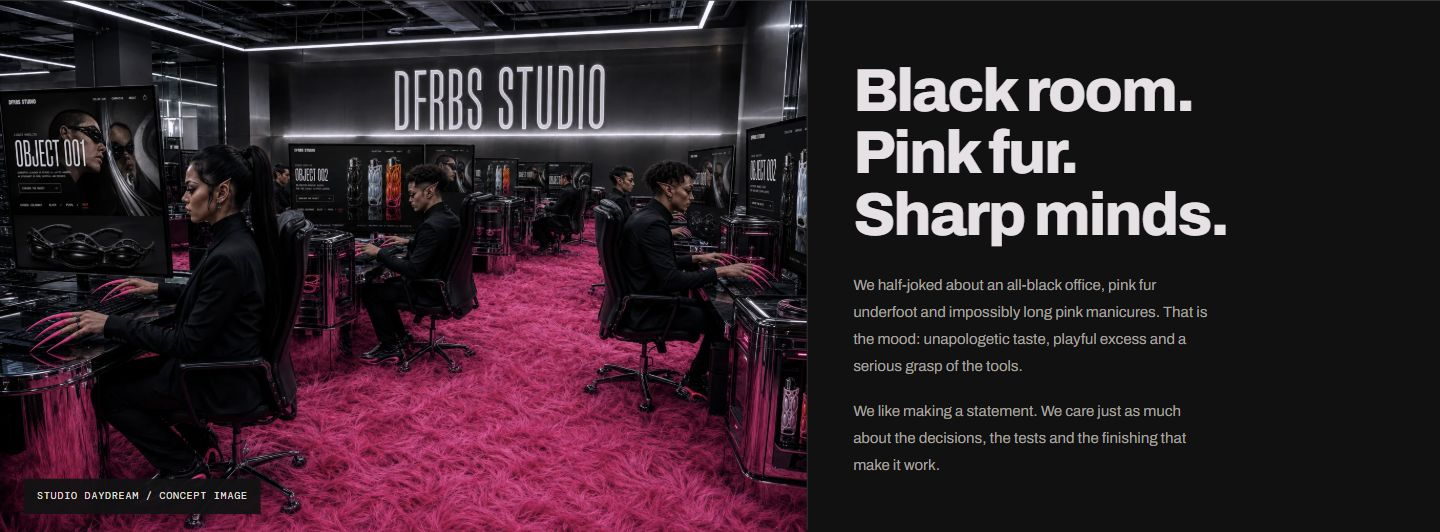
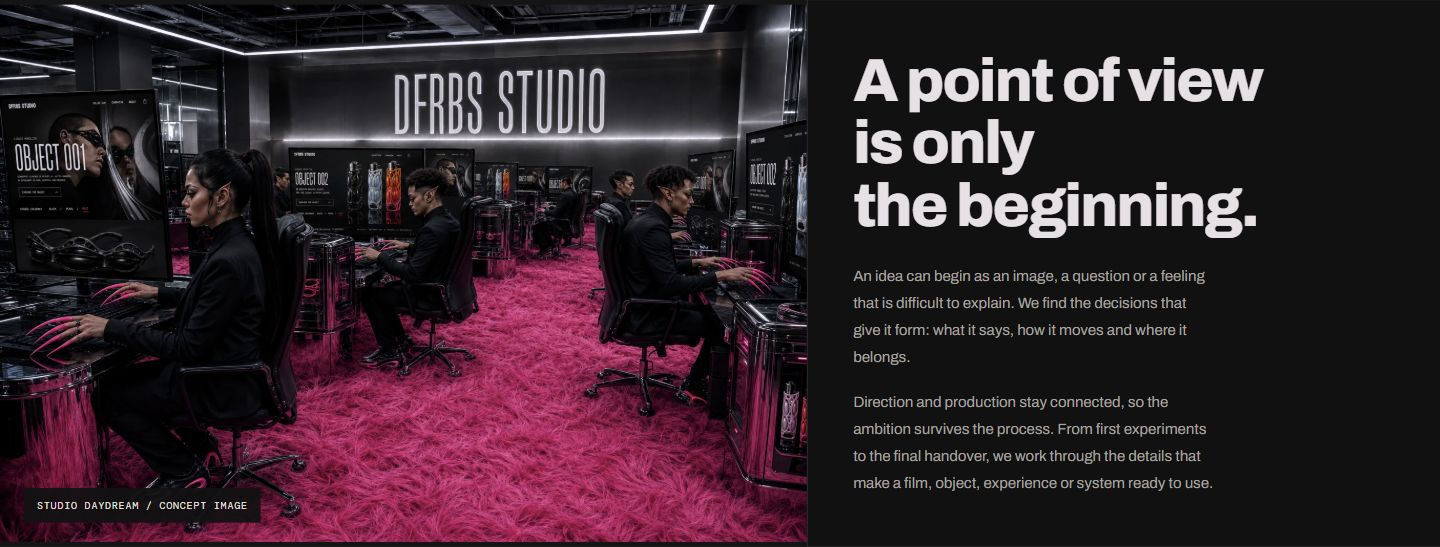
Give studio copy meaning beyond the visual metaphor

diff --git a/src/StudioWebsite.jsx b/src/StudioWebsite.jsx
@@ -52,14 +52,14 @@ function Home({ onNavigate }) {
         <div className="studio-opening-tabs" role="group" aria-label="Explore our practice"><button type="button" aria-pressed={view === "fashion"} onClick={() => setView("fashion")}>FASHION</button><button type="button" aria-pressed={view === "film"} onClick={() => setView("film")}>FILM</button><button type="button" aria-pressed={view === "object"} onClick={() => setView("object")}>OBJECTS</button><span>SELECTED WORK BY THE FOUNDERS</span></div>
       </div>
       <div className="studio-opening-note">
-        <div className="studio-intro-copy"><h1 id="studio-main-title" tabIndex={-1}>Wicked taste.<br />Serious craft.</h1><p>A creative studio by<br /><strong>Ran Bensimon & Dor Fellous.</strong></p><p>Films, digital fashion, art and creative tools. A point of view, and the skills to build it.</p></div>
+        <div className="studio-intro-copy"><h1 id="studio-main-title" tabIndex={-1}>Wicked taste.<br />Serious craft.</h1><p>A creative studio by<br /><strong>Ran Bensimon & Dor Fellous.</strong></p><p>Films, digital fashion, art and creative tools — developed as part of a visual language that belongs to you.</p></div>
         <div className="studio-intro-close"><span>FOR BRANDS, ARTISTS<br />& CULTURAL ORGANISATIONS</span><StudioLink to="contact" onNavigate={onNavigate} className="studio-primary-link">START A PROJECT <ArrowRight size={24} weight="light" /></StudioLink><StudioLink to="work" onNavigate={onNavigate} className="studio-text-link">EXPLORE THE WORK <ArrowUpRight size={18} /></StudioLink></div>
       </div>
     </section>
     <section className="studio-practice-index" aria-label="Explore studio services">{[{key:"film",title:"FILMS",description:"Campaigns, music, moving image."},{key:"3d",title:"WORLDS",description:"3D, digital fashion, art & experiences."},{key:"web",title:"TOOLS",description:"Websites, AI workflows, creative systems."}].map((entry) => <StudioLink to="services" options={{service:entry.key}} onNavigate={onNavigate} key={entry.key}><span>{entry.title}</span><p>{entry.description}</p><ArrowUpRight size={26} weight="light" /></StudioLink>)}</section>
-    <section className="studio-selected" aria-labelledby="selected-title"><div className="studio-section-heading"><h2 id="selected-title">A point of view.<br />The skills to back it.</h2><StudioLink to="work" onNavigate={onNavigate} className="studio-text-link">ALL SELECTED WORK <ArrowUpRight size={20} /></StudioLink></div><p className="studio-credit-note">A selection from our individual practices, brought together as DFRBS Studio.</p><div className="studio-work-grid">{featured.map((project) => <WorkTile project={project} onNavigate={onNavigate} key={project.id} />)}</div></section>
+    <section className="studio-selected" aria-labelledby="selected-title"><div className="studio-section-heading"><h2 id="selected-title">Selected<br />work.</h2><StudioLink to="work" onNavigate={onNavigate} className="studio-text-link">ALL SELECTED WORK <ArrowUpRight size={20} /></StudioLink></div><p className="studio-credit-note">A selection from our individual practices, brought together as DFRBS Studio.</p><div className="studio-work-grid">{featured.map((project) => <WorkTile project={project} onNavigate={onNavigate} key={project.id} />)}</div></section>
     <section className="studio-service-index" aria-labelledby="service-index-title"><div className="studio-section-heading"><h2 id="service-index-title">Bring us a brief.<br />Or the beginning of one.</h2><p>From a single visual to a complete production system, we shape the scope around what you need to make.</p></div><div>{SERVICES.map((service) => <StudioLink to="services" options={{service:service.key}} onNavigate={onNavigate} className="studio-service-row" key={service.key}><h3>{service.title}</h3><ArrowUpRight size={26} weight="light" /></StudioLink>)}</div></section>
-    <section className="studio-shared-practice"><h2>High taste.<br />Low ceremony.</h2><div><p>Dor’s work moves through AI films, digital fashion and wearable art. Ran’s practice connects real-time 3D, generative AI and interactive systems.</p><p>We care about the image and everything it takes to make it: the direction, the pipeline, the edit, the code. We get specific, test the idea and see it through.</p><StudioLink to="studio" onNavigate={onNavigate} className="studio-text-link">MEET THE STUDIO <ArrowUpRight size={20} /></StudioLink></div></section>
+    <section className="studio-shared-practice"><h2>Two practices.<br />One studio.</h2><div><p>Dor’s work moves through AI films, digital fashion and wearable art. Ran’s practice connects real-time 3D, generative AI and interactive systems.</p><p>The image and the system behind it are developed together. An experiment can become a visual direction, a working prototype or a process your team can keep using.</p><StudioLink to="studio" onNavigate={onNavigate} className="studio-text-link">MEET THE STUDIO <ArrowUpRight size={20} /></StudioLink></div></section>
     <ProjectClose onNavigate={onNavigate} />
   </>;
 }
@@ -87,12 +87,12 @@ function Project({ project, onNavigate, onOpenObject }) {
 function StudioAttitude() {
   return <section className="studio-attitude" aria-labelledby="studio-attitude-title">
     <figure className="studio-attitude-image"><img src={asset("studio/studio-daydream.webp")} alt="Imagined black and chrome studio with pink fur carpets and extravagant pink manicures" loading="lazy" /><figcaption>STUDIO DAYDREAM / CONCEPT IMAGE</figcaption></figure>
-    <div className="studio-attitude-copy"><h2 id="studio-attitude-title">Black room.<br />Pink fur.<br />Sharp minds.</h2><p>We half-joked about an all-black office, pink fur underfoot and impossibly long pink manicures. That is the mood: unapologetic taste, playful excess and a serious grasp of the tools.</p><p>We like making a statement. We care just as much about the decisions, the tests and the finishing that make it work.</p></div>
+    <div className="studio-attitude-copy"><h2 id="studio-attitude-title">A point of view<br />is only<br />the beginning.</h2><p>An idea can begin as an image, a question or a feeling that is difficult to explain. We find the decisions that give it form: what it says, how it moves and where it belongs.</p><p>Direction and production stay connected, so the ambition survives the process. From first experiments to the final handover, we work through the details that make a film, object, experience or system ready to use.</p></div>
   </section>;
 }
 
 function About({ onNavigate }) {
-  return <><section className="studio-page-intro"><h1 tabIndex={-1}>A studio<br />with nerve.</h1><div><p>DFRBS Studio brings together Ran Bensimon and Dor Fellous to create across moving image, physical form and creative technology.</p><p>We like an image with nerve, a form with presence and a tool that actually works. That’s where our practices meet.</p></div></section><StudioAttitude /><section className="studio-founders" aria-label="Meet the founders">{FOUNDERS.map((founder) => <article className="studio-founder" key={founder.name}><div className="studio-founder-image"><img src={asset(founder.name.startsWith("Ran") ? "studio/ran-bring-your-love.webp" : "studio/dor-fashion-07.jpeg")} alt={`Selected work by ${founder.name}`} loading="lazy" /></div><h2>{founder.name}</h2><p className="studio-founder-practice">{founder.role}</p><p>{founder.description}</p><a className="studio-text-link" href={founder.source} target="_blank" rel="noopener noreferrer">INDIVIDUAL PORTFOLIO <ArrowUpRight size={20} /></a></article>)}</section><section className="studio-how" aria-labelledby="how-title"><h2 id="how-title">The idea sets<br />the medium.</h2><div>{[{title:"Find the point.",body:"We start with the audience, the intention and the context. What needs to happen, and what should it feel like?"},{title:"Make the language.",body:"We develop visual directions and test the important unknowns early — through frames, prototypes, material studies or a technical pilot."},{title:"Build it properly.",body:"The agreed scope becomes a production plan. We bring direction, 3D, AI, coding and finishing together where the project needs them."},{title:"Leave something useful.",body:"We agree on the final formats and handover from the start: finished media, working code, documented workflows or assets your team can continue using."}].map((step) => <article key={step.title}><h3>{step.title}</h3><p>{step.body}</p></article>)}</div></section><section className="studio-principles"><p>LONG NAILS.<br />HIGH STANDARDS.</p><span>TASTE / TECHNIQUE / FOLLOW-THROUGH</span></section><ProjectClose onNavigate={onNavigate} /></>;
+  return <><section className="studio-page-intro"><h1 tabIndex={-1}>A studio<br />with nerve.</h1><div><p>DFRBS Studio brings together Ran Bensimon and Dor Fellous to create across moving image, physical form and creative technology.</p><p>Our collaboration starts where these disciplines meet: when a visual idea needs a system, a digital form becomes physical, or a tool opens up another way to make.</p></div></section><StudioAttitude /><section className="studio-founders" aria-label="Meet the founders">{FOUNDERS.map((founder) => <article className="studio-founder" key={founder.name}><div className="studio-founder-image"><img src={asset(founder.name.startsWith("Ran") ? "studio/ran-bring-your-love.webp" : "studio/dor-fashion-07.jpeg")} alt={`Selected work by ${founder.name}`} loading="lazy" /></div><h2>{founder.name}</h2><p className="studio-founder-practice">{founder.role}</p><p>{founder.description}</p><a className="studio-text-link" href={founder.source} target="_blank" rel="noopener noreferrer">INDIVIDUAL PORTFOLIO <ArrowUpRight size={20} /></a></article>)}</section><section className="studio-how" aria-labelledby="how-title"><h2 id="how-title">The idea sets<br />the medium.</h2><div>{[{title:"Find the point.",body:"We start with the audience, the intention and the context. What needs to happen, and what should it feel like?"},{title:"Make the language.",body:"We develop visual directions and test the important unknowns early — through frames, prototypes, material studies or a technical pilot."},{title:"Build it properly.",body:"The agreed scope becomes a production plan. We bring direction, 3D, AI, coding and finishing together where the project needs them."},{title:"Leave something useful.",body:"We agree on the final formats and handover from the start: finished media, working code, documented workflows or assets your team can continue using."}].map((step) => <article key={step.title}><h3>{step.title}</h3><p>{step.body}</p></article>)}</div></section><section className="studio-principles"><p>CONVICTION.<br />CARRIED THROUGH.</p><span>TASTE / TECHNIQUE / FOLLOW-THROUGH</span></section><ProjectClose onNavigate={onNavigate} /></>;
 }
 
 function ProjectClose({ onNavigate }) {

diff --git a/index.html b/index.html
@@ -11,7 +11,7 @@
     <!--
     THESIS: Authored images and working creative systems share one studio; projects prove the offer.
     OWN-WORLD: Charcoal, pearl, chrome wordmark, Archivo, precise pink accents, flat rectangular actions and drawer seams. Genuine founder work supplies the colour; the labelled black-room/pink-fur daydream expresses the studio attitude.
-    STORY: Wicked taste and serious craft. Meet Ran and Dor, explore individually credited work, choose a service, prepare a project brief.
+    STORY: A point of view becomes decisions and finished work. The visuals carry the studio atmosphere; copy explains judgment, connected direction and production, and client outcomes. Meet Ran and Dor, explore individually credited work, choose a service, prepare a project brief.
     FIRST VIEWPORT: Desktop moving-image plate occupies 62%; studio introduction and project action occupy 38%. Mobile leads with identity and action, followed by the media plate.
     FORM: User-pinned Open drawer composition 2, expanded into a joint studio website; approval 2026-10-05, inherited-world key dfrbs-open-drawer-2.
     FINISH: unreviewed and undocumented is unfinished; this build ends with the finish review, the verdict, and DESIGN.md

diff --git a/DESIGN.md b/DESIGN.md
@@ -169,7 +169,7 @@ components:
 
 Authored images and working creative systems share one studio. Charcoal, pearl, the supplied chrome wordmark and strong Archivo type create a restrained frame for the actual work of Ran Bensimon and Dor Fellous. Colour comes primarily from the work itself; flat artifact plates, fine drawer seams and rectangular actions carry the interface. The studio has nerve: confident taste, queer/fashion wit and playful excess backed by serious craft. Small pink marks express that attitude within the charcoal/chrome frame.
 
-This is the built system after the approved Open drawer composition 2 reinvention and its expansion into a complete joint creative studio. It replaces the earlier campaign refinement. The homepage introduces the practice, work pages foreground individually credited artifacts, services disclose their scope in drawers, and the project brief uses a quieter form layout. Shared materials and controls connect those surfaces; their composition follows their purpose. The user's imagined black office, pink fur and extravagant long pink manicures supply the cultural spirit. “Wicked taste. Serious craft.” introduces the practice; “Long nails. High standards.” states its conviction. The office appears as a labelled daydream concept, with no claim about current premises or staff.
+This is the built system after the approved Open drawer composition 2 reinvention and its expansion into a complete joint creative studio. It replaces the earlier campaign refinement. The homepage introduces the practice, work pages foreground individually credited artifacts, services disclose their scope in drawers, and the project brief uses a quieter form layout. Shared materials and controls connect those surfaces; their composition follows their purpose. The concept image carries the studio's visual metaphor; public text adds judgment, process and client value. “Wicked taste. Serious craft.” introduces the practice once, followed by the client-specific visual-language offer. “Selected work.” and “Two practices. One studio.” give the homepage's sections clear roles. “CONVICTION. CARRIED THROUGH.” states the commitment to carrying an idea into finished, usable work.
 
 The source of truth is [atelier.css](src/atelier.css), [studioWebsite.css](src/studioWebsite.css), [services.css](src/services.css), [inquiry.css](src/inquiry.css), [studio.css](src/studio.css) and the matching JSX. [PRODUCT.md](PRODUCT.md), the body contract in [index.html](index.html) and the [complete-studio specification](docs/superpowers/specs/2026-10-05-complete-studio.md) establish the approved scope; the [studio-spirit clarification](docs/superpowers/specs/2026-10-05-studio-spirit.md) records the later voice and accent refinement. The object authority is [Open drawer composition 2](.impeccable/mocks/reinvention-comp-2.png). Tokens above record implemented values; the sidecar carries extensions and preview snippets. Its generated tonal ramps are preview metadata, not additional implemented palette steps.
 
@@ -178,6 +178,7 @@ The source of truth is [atelier.css](src/atelier.css), [studioWebsite.css](src/s
 - Authored founder imagery and films lead.
 - Charcoal, pearl and chrome form the shared material language, with small pink active/hover marks.
 - Confident taste and playful excess are backed by specific decisions, tests and finishing.
+- Visuals carry the metaphor; public text adds judgment, process and client value.
 - Archivo provides expressive headings and readable prose; DM Mono handles compact indexes and technical captions.
 - Artifact plates, ruled rows and native drawers replace rounded cards.
 - Rectangular pale actions remain easy to find beside large images.
@@ -212,7 +213,7 @@ The palette is a warm neutral range with small Studio Pink marks in the wider si
 
 **The Restrained Heat Rule.** HEAT belongs to product imagery and small object-selection states. Keep broad interface backgrounds neutral.
 
-**The Precise Pink Rule.** Use Studio Pink for small studio active and hover marks. Keep the interface's broad surfaces charcoal and pearl; pink fur belongs to the labelled concept image.
+**The Precise Pink Rule.** Use Studio Pink for small studio active and hover marks. Keep the interface's broad surfaces charcoal and pearl; the labelled concept image carries the visual metaphor.
 
 ## Typography
 
@@ -304,9 +305,9 @@ Project media uses contained fit, bounded by its actual dimensions rather than f
 
 ### Studio daydream and manifesto
 
-The StudioAttitude plate pairs the supplied [studio daydream image](public/assets/studio/studio-daydream.webp) with “Black room. Pink fur. Sharp minds.” Its caption explicitly reads “STUDIO DAYDREAM / CONCEPT IMAGE”. The image follows its natural proportions at full column width. A dark square caption overlay (`#111e`) uses DM Mono; copy sits beyond a straight vertical seam, with 15px / 1.8 body text capped at 42ch.
+The StudioAttitude plate pairs the supplied [studio daydream image](public/assets/studio/studio-daydream.webp) with “A point of view is only the beginning.” Its caption explicitly reads “STUDIO DAYDREAM / CONCEPT IMAGE”. The image follows its natural proportions at full column width. A dark square caption overlay (`#111e`) uses DM Mono; copy sits beyond a straight vertical seam, with 15px / 1.8 body text capped at 42ch.
 
-This plate communicates imagined black-office / pink-fur / long-manicure spirit, not current premises, staff or a dress code. Mobile stacks the plate at 740px, moves the seam above the copy and uses 14px body text. The closing Archivo manifesto reads “LONG NAILS. HIGH STANDARDS.” with compact mono support. Its support caption uses Studio Pink on desktop and mobile.
+The image carries the metaphor while the adjacent text explains how an image, question or feeling becomes decisions about meaning, movement and context. Direction and production stay connected so the ambition reaches a finished film, object, experience or system ready to use. The label and accessibility image description remain factual; the copy does not explain the office joke or turn visual props into slogans. Mobile stacks the plate at 740px, moves the seam above the copy and uses 14px body text. The closing Archivo manifesto reads “CONVICTION. CARRIED THROUGH.” with compact mono support, “TASTE / TECHNIQUE / FOLLOW-THROUGH”. Its support caption uses Studio Pink on desktop and mobile.
 
 ### Service drawers
 
@@ -347,7 +348,8 @@ A global reduced-motion rule removes all animations/transitions and uses immedia
 - **Do** reuse the supplied wordmark, authored founder work, campaign films and accurate object assets.
 - **Do** use charcoal/pearl surfaces, square actions and straight seams as the shared interface language.
 - **Do** retain the separate individual-credit metadata beside portfolio imagery.
-- **Do** label the studio daydream as a concept image and keep taste-and-craft voice distinct from plain navigation, service scope and form instructions.
+- **Do** label the studio daydream as a concept image; let visuals carry the metaphor while public text adds judgment, process and client value.
+- **Do** keep navigation, service scope, credits and form instructions plain and useful.
 - **Do** adapt layout to the surface: image archive, credited dossier, service drawer or reviewable brief.
 - **Do** preserve contained artifact/project-media fitting and deliberate editorial cropping.
 - **Do** retain native controls, visible focus, keyboard selection, focus-managed dialogs and reduced-motion behaviour.
@@ -360,4 +362,5 @@ A global reduced-motion rule removes all animations/transitions and uses immedia
 - **Don't** stretch, redraw or crop away defining object anatomy.
 - **Don't** substitute stock imagery or describe selected-work images as founder portraits.
 - **Don't** describe the studio daydream as actual premises, staff or a dress code.
+- **Don't** explain the office joke in marketing copy or use visual props as slogans.
 - **Don't** present local brief preparation or the object bag as completed server submission, payment or inventory.

diff --git a/docs/superpowers/specs/2026-10-05-studio-spirit.md b/docs/superpowers/specs/2026-10-05-studio-spirit.md
@@ -2,8 +2,8 @@
 
 The user supplied the missing cultural attitude: an imagined black office, pink fur underfoot and extravagant pink manicures, as the spirit of “confident bitches” who know their craft. This is a refinement of the approved wider studio, not a new visual-world selection.
 
-Keep the charcoal/chrome atelier, genuine founder work and six clear offers. Give the homepage a direct taste-and-craft voice; express the office daydream on the Studio page as a labelled concept, with no current premises/staff claims. Carry confidence through authored principles and concrete production language; keep navigation, project credits, service scopes, form labels and error handling plain and useful.
+Keep the charcoal/chrome atelier, genuine founder work and six clear offers. The user's correction establishes that imagery carries the metaphor; text must add meaning rather than explain the office joke or turn its props into slogans. Keep the concept image and its truthful label, with no current premises/staff claims. Carry confidence through judgment, connected direction and production, and concrete client outcomes. Keep navigation, project credits, service scopes, form labels and error handling plain and useful.
 
-The homepage reads “Wicked taste. Serious craft.” The Studio page introduces “A studio with nerve.” A concept plate pairs the supplied black/pink studio image with “Black room. Pink fur. Sharp minds.” and the origin story. The closing manifesto reads “Long nails. High standards.” Pink is a precise active/hover mark alongside black/chrome, not a broad background. Original object geometry, colours, prices and interactions remain.
+The homepage retains “Wicked taste. Serious craft.” as the opening statement. “Selected work.” and “Two practices. One studio.” let evidence and the founders' complement carry the subsequent sections. The Studio concept plate reads “A point of view is only the beginning.” Its paragraphs explain how an image, question or feeling becomes a set of decisions, then finished work. The closing manifesto reads “Conviction. Carried through.” Pink remains a precise active/hover mark alongside black/chrome. Original object geometry, colours, prices and interactions remain.
 
 Verify the changed Home and Studio at desktop/mobile, including the longer headline, concept label and section fit. Build and required hosting checks must pass. Record the actual changes in the design system and strategy, update the same draft and regenerate the handover package.

diff --git a/docs/VERIFICATION.md b/docs/VERIFICATION.md
@@ -40,6 +40,6 @@ The source, preview, design system, strategy and draft pull request are reviewab
 
 ## Studio spirit refinement
 
-The collaborator’s black-room, pink-fur and long-manicure daydream is expressed through “Wicked taste. Serious craft.”, precise pink accents, a labelled concept plate and “Long nails. High standards.” The original studio archive also identifies its office and boardroom images as imagined concepts. Service scopes, project credits and functional boundaries are retained.
+The collaborator’s metaphor is carried by the visuals and precise pink accents. Public text adds an independent layer: “A point of view is only the beginning.” introduces judgment and development, and “Conviction. Carried through.” connects ambition to finished work. The literal office-joke explanation and prop slogans have been removed. The original studio archive still identifies its office and boardroom images as imagined concepts. Service scopes, project credits and functional boundaries are retained.
 
-The refreshed production build passed. The hosting tests passed 4/4 before the final caption-colour and archive-label corrections; those corrections do not alter hosting behavior. A batched desktop/mobile inspection and one confirmation round checked the home and About layouts at 1440 × 1000 and 390 × 844. Both sizes had no horizontal overflow; the daydream image loaded at its original 1536px width, its concept caption was visible, and the closing caption computed to Studio Pink at both sizes. The independent scoped finish review found no material copy, layout or concept-truth findings. Design documentation, media provenance, strategy and preview captures reflect the clarification.
+The production build and hosting tests (4/4) passed after the latest editorial revision. A batched desktop/mobile inspection checked Home and About at 1440 × 1000 and 390 × 844. Both sizes had no horizontal overflow, and the project action remained visible on mobile. Visible About main content contained none of “pink fur”, “long nails”, “half-joked” or “black room”; accessibility image descriptions retain accurate visual information. The independent scoped review returned Pass, with no material copy or layout findings. Design documentation, strategy and preview captures reflect the corrected narrative. No component behavior or CSS was changed by this editorial revision.

diff --git a/docs/STUDIO-STRATEGY.md b/docs/STUDIO-STRATEGY.md
@@ -10,7 +10,11 @@ Use **Websites & creative tools** as the client-facing label. “Vibe coding” 
 
 ## Brand attitude
 
-**“Wicked taste. Serious craft.”** sets the tone: a strong point of view, sly queer/fashion wit and technical competence. The collaborator’s imagined all-black office, pink fur, black outfits and long pink manicures express the studio’s spirit; they are not claims about real premises, staff or a dress code. “Confident bitches” means assured taste and command of the craft, translated for clients into concrete scope, clear decisions and follow-through. **“A studio with nerve.”**, **“Black room. Pink fur. Sharp minds.”** and **“Long nails. High standards.”** carry that attitude. **“Bring the brief. Bring the obsession.”** makes the invitation generous. Keep service and project facts precise beneath the wit.
+**“Wicked taste. Serious craft.”** sets the opening tone: a strong point of view, sly queer/fashion wit and technical competence. The following introduction gives that confidence a client purpose: films, digital fashion, art and creative tools developed as part of a visual language that belongs to the client. “Selected work.” leads to evidence; “Two practices. One studio.” explains how authored imagery and form meet real-time 3D, generative AI and interactive systems.
+
+**Visuals carry the metaphor; public text adds judgment, process and client value.** The labelled studio concept image establishes the atmosphere. Its adjacent heading, **“A point of view is only the beginning.”**, introduces decisions about what an idea says, how it moves and where it belongs. The paragraphs connect direction and production from early experiments to a usable finished work or handover. The Studio introduction explains where disciplines meet: a visual idea needs a system, a digital form becomes physical, or a tool opens another way to make.
+
+**“CONVICTION. CARRIED THROUGH.”** expresses follow-through. **“Bring the brief. Bring the obsession.”** keeps the invitation open, with a clear statement of what the work takes. Do not explain the office joke or turn visual props into slogans. Keep the concept label and accessibility descriptions factual, and keep service scopes, project credits, navigation and form instructions plain and useful.
 
 ## Observed founder evidence
 

diff --git a/PRODUCT.md b/PRODUCT.md
@@ -24,7 +24,7 @@ A complete creative studio website for the proposed shared practice of Ran Bensi
 
 ## Brand Commitments
 
-The user confirmed DFRBS Studio and brands, artists and cultural organisations. They rejected campaign polish and approved Open drawer composition 2 as a reinvention, then broadened the scope to the shared studio. Inherit its charcoal/chrome world, flat plate and drawer grammar, strong Archivo typography and supplied wordmark across the wider website. HEAT stays a product and small active accent; avoid large coloured backgrounds. The collaborator’s black-office / pink-fur / long-manicure daydream defines a confident, witty, queer/fashion sensibility backed by serious craft. The wider site uses small pink marks and a labelled concept image to convey that spirit. It makes no literal office, staff or dress-code claims.
+The user confirmed DFRBS Studio and brands, artists and cultural organisations. They rejected campaign polish and approved Open drawer composition 2 as a reinvention, then broadened the scope to the shared studio. Inherit its charcoal/chrome world, flat plate and drawer grammar, strong Archivo typography and supplied wordmark across the wider website. HEAT stays a product and small active accent; avoid large coloured backgrounds. The collaborator’s black-office / pink-fur / long-manicure daydream defines a confident, witty, queer/fashion sensibility backed by serious craft. Small pink marks and a labelled concept image convey that atmosphere. Public copy adds an independent layer about creative judgment, connected direction and production, and usable outcomes; never explain the visual metaphor or name its props in marketing slogans. Keep image descriptions accurate for accessibility. Make no literal office, staff or dress-code claims.
 
 ## Evidence on Hand
 

diff --git a/AGENTS.md b/AGENTS.md
@@ -10,6 +10,7 @@ Build app UI in `src/`. Keep `.openai/hosting.json`, `worker/index.js`, `scripts
 
 ## DFRBS prototype decisions
 
+- The collaborator rejected literal use of the black-office/pink-fur/long-manicure metaphor in marketing copy. The imagery already carries that atmosphere. Public text must add an independent layer: creative judgment, the connection between direction and production, and what clients can make or use. Do not explain the office joke or turn its props into slogans. This supersedes the earlier literal “Black room. Pink fur. Sharp minds.” and “Long nails. High standards.” copy. Keep image descriptions accurate for accessibility and the concept label truthful.
 - The collaborator clarified the studio's spirit: an imagined all-black office, pink fur carpets, black clothing and extravagant pink manicures; “confident bitches” who know their craft and do not mess around. Treat this as attitude and creative culture, never a claim about current premises, staff or a dress code. Preserve wit, queer/fashion sensibility, strong taste and technical competence. Let project evidence earn the confidence, and keep client-facing actions and form messages clear and welcoming.
 - The wider studio may use precise hot-pink accents alongside black and chrome, authorised by this brand clarification. Pink appears in small active/hover marks and conceptual studio imagery. It does not replace the HEAT product palette or become a large page background. The black/pink concept image is explicitly labelled “Studio daydream / concept image.”
 
